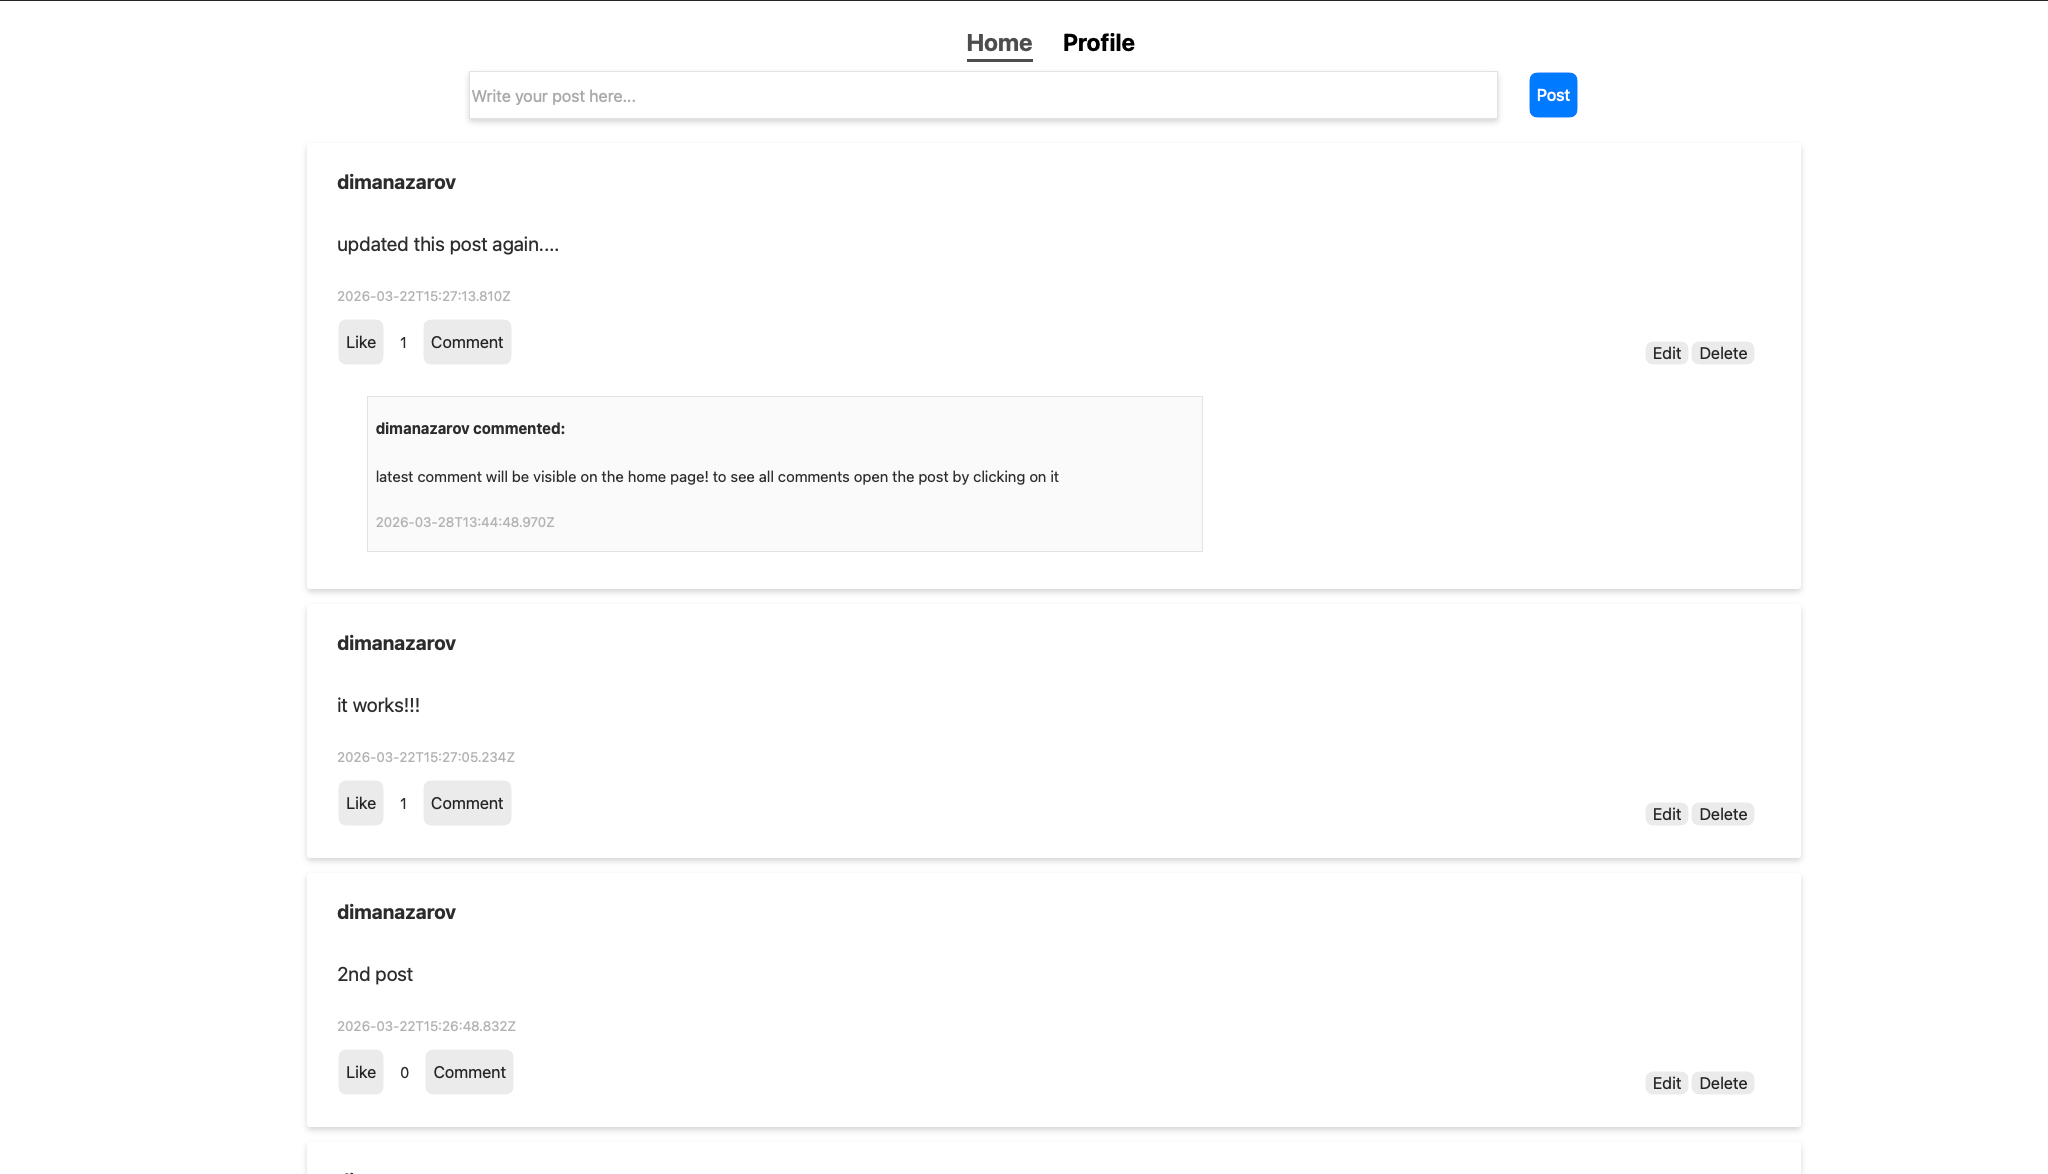
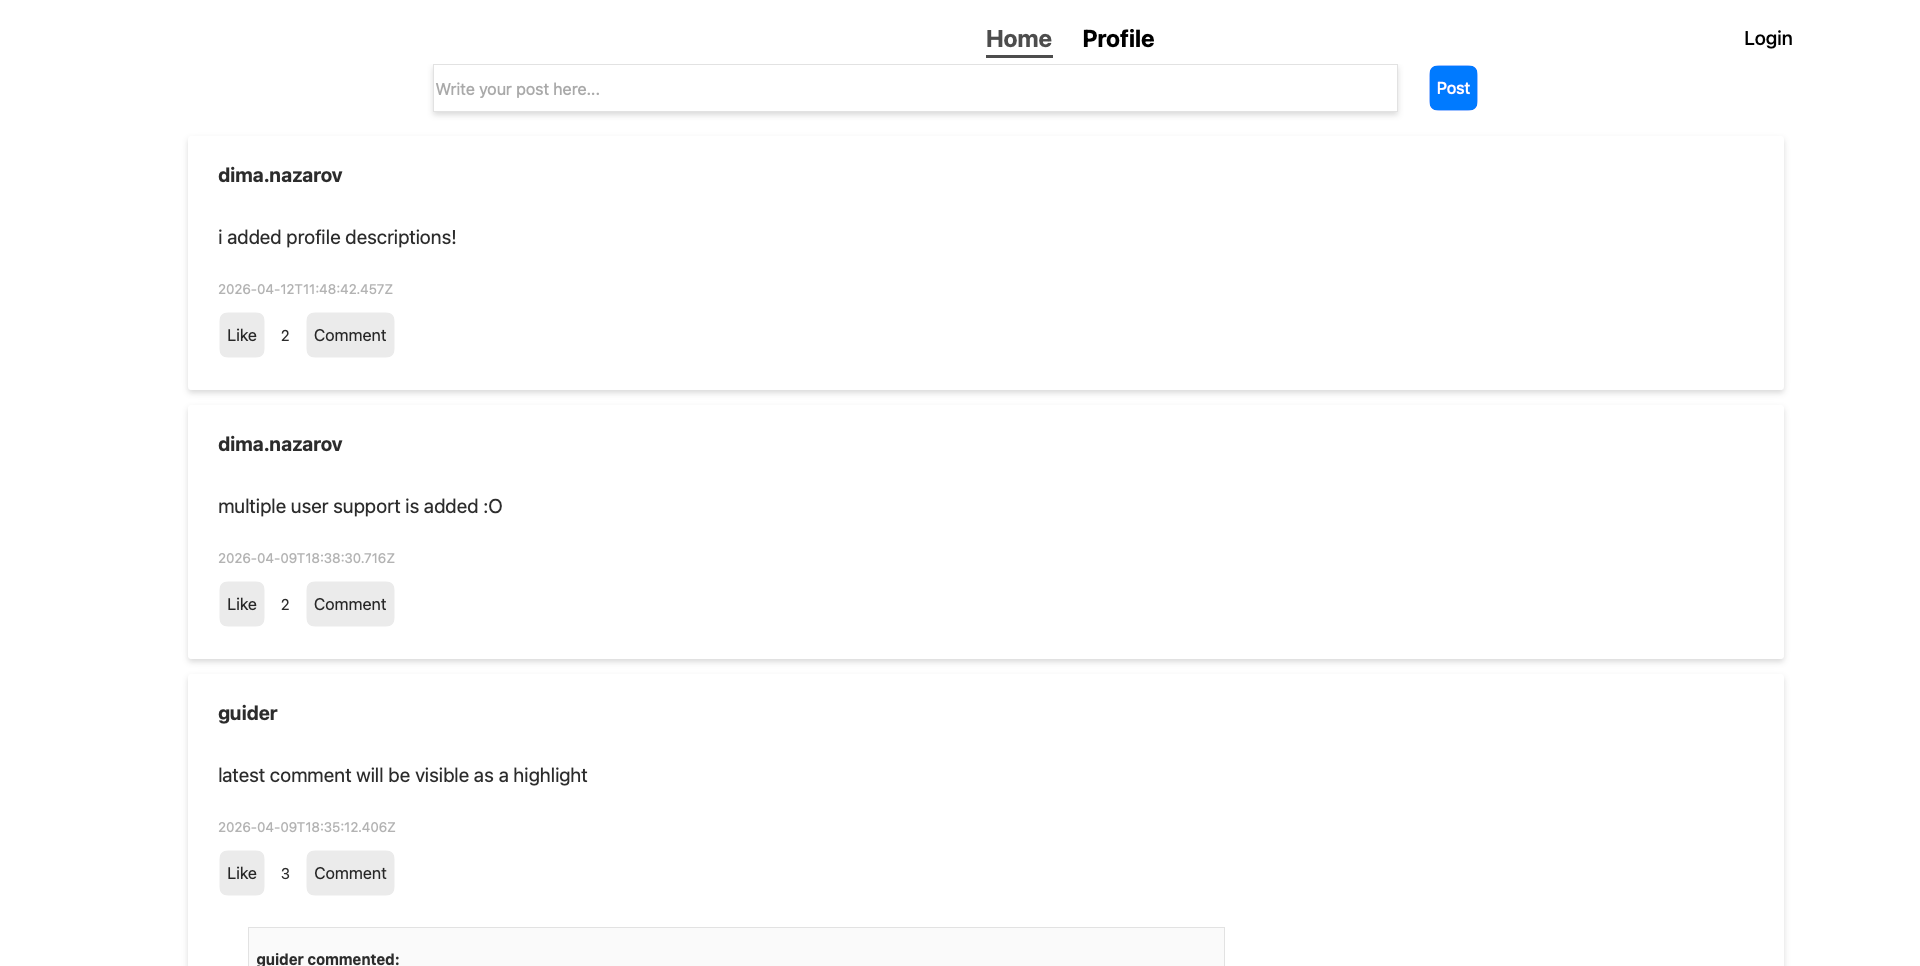
docs(README.md): upodate README according to the new release of Release Candidate

diff --git a/README.md b/README.md
@@ -7,7 +7,7 @@ navigating a minimalistic UI. In individual profile sections you can view all
 posts done by the person and in the future likes and comments will be visible as
 well.
 
-[Check it out here!](https://echo-fullstack-blog-app.onrender.com)
+[Check it out here! (live demo)](https://echo-fullstack-blog-app.onrender.com)
 
 This app showcases my skills in **fullstack programming** and enthusiasm towards
 creating a polished project.
@@ -38,6 +38,8 @@ Stable releases with realised functionalities are better found in releases.
 - **Docker**
 - **React (Vite)**
 - **JSDoc**
+- **Passport** + **Session** + **bcrypt**
+- **Joi**
 
 ## Link to the deployed project
 
@@ -51,6 +53,10 @@ Stable releases with realised functionalities are better found in releases.
 - **Likes** to show appreciation for a post
 - **Editing a post** directly in a post card
 - **Profile view** to view all posts, likes and comments made by user (still in development)
+- **Description** can be edited in profile to showcase to other users (opening other profiles in development still)
+- **Authentication, login and registration** with Passport, Session and Bcrypt. No one can change other persons data
+- **Input validation with JOI**
+- **Descriptive error messages** (not yet visible in frontend)
 
 ## Installation
 
@@ -70,7 +76,8 @@ Stable releases with realised functionalities are better found in releases.
 This runs the frontend with Vite and the backend together.
 
 > For local database configuration, copy `container/backend/.env.example` to
-> `container/backend/.env` and fill in your database values.
+> `container/backend/.env` and fill in your database values. Session secret can
+> be randomly generated
 
 ## Database structure
 
@@ -80,6 +87,8 @@ This runs the frontend with Vite and the backend together.
         | **users**           |       |        /--------------------\   |
     /-->| id          (PK)    |<------/        | **comments**       |   |
     |   | username            |                | id          (PK)   |   |
+    |   | password            |                |                    |   |
+    |   | description         |                |                    |   |
     |   \---------------------/          /---->| post_id     (FK)   |   |
     |                                    |     | user_id     (FK)   |---|
     |                                    |     | body               |   |
@@ -93,13 +102,22 @@ This runs the frontend with Vite and the backend together.
                                                \--------------------/
 ```
 
-## AI Usage
+## AI Usage & Tutorial help
 
 AI has been used through this project for debugging purposes especially in frontend
 and searching for typos in routing. AI has been also used to describe concepts and
 to help with SQL join queries.
+While creating authentication logic AI was used to explain the theme and tools
+available.
 
 Tools used:
 
 - ChatGPT
 - GitHub Copilot
+
+During creation of authentication, login and registering logic these tutorials
+and articles were helpful:
+
+- [Video I ended up using the most. Passport + Session + Bcrypt](https://www.youtube.com/watch?v=-RCnNyD0L-s&list=LL&index=3)
+- [Another video that was helpful to understand the context](https://www.youtube.com/watch?v=nI8PYZNFtac&list=LL&index=5&t=532s)
+- [Article I used to understand React and Passport interaction](https://www.freecodecamp.org/news/react-passport-authentication/)
